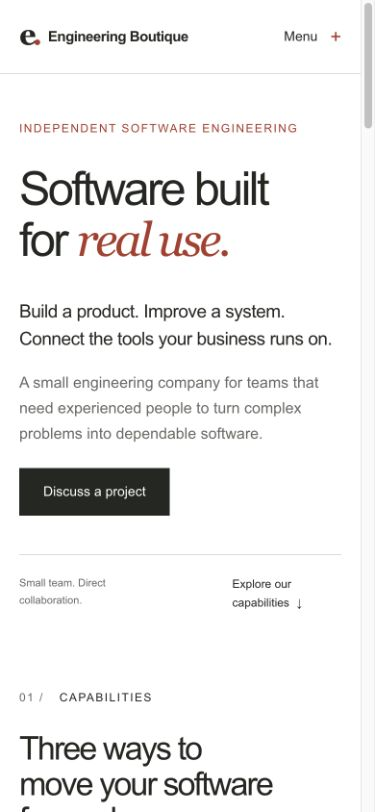
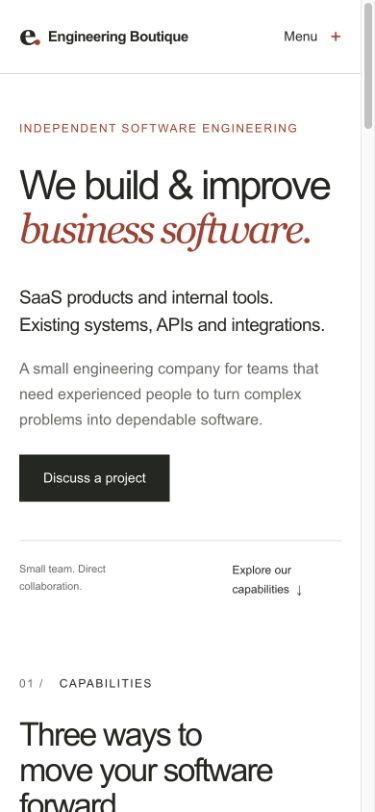
Update Site source

diff --git a/app/page.tsx b/app/page.tsx
@@ -4,7 +4,7 @@ import { capabilities, principles, process } from '@/lib/content';
 import { pageMetadata } from '@/lib/metadata';
 export const metadata = pageMetadata('Software built for real use', 'SaaS products, web applications, software modernization, APIs and automation. Experienced engineers, direct collaboration and maintainable software.', '/');
 export default function Home() { return <>
-  <section className="hero container"><Label>Independent software engineering</Label><div className="hero-grid"><h1>Software built<br/>for <em>real use.</em></h1><div className="hero-copy"><p>Build a product. Improve a system.<br/>Connect the tools your business runs on.</p><p className="muted">A small engineering company for teams that need experienced people to turn complex problems into dependable software.</p><Link href="/contact/" className="button">Discuss a project</Link></div></div><div className="hero-baseline"><span>Small team. Direct collaboration.</span><span>From the first decision to production.</span><a href="#capabilities" className="scroll-link">Explore our capabilities <span aria-hidden="true">↓</span></a></div></section>
+  <section className="hero container"><Label>Independent software engineering</Label><div className="hero-grid"><h1>We build &amp; improve<br/><em>business software.</em></h1><div className="hero-copy"><p>SaaS products and internal tools.<br/>Existing systems, APIs and integrations.</p><p className="muted">A small engineering company for teams that need experienced people to turn complex problems into dependable software.</p><Link href="/contact/" className="button">Discuss a project</Link></div></div><div className="hero-baseline"><span>Small team. Direct collaboration.</span><span>From the first decision to production.</span><a href="#capabilities" className="scroll-link">Explore our capabilities <span aria-hidden="true">↓</span></a></div></section>
   <section id="capabilities" className="section container"><div className="section-heading"><Label number="01">Capabilities</Label><div><h2>Three ways to<br/>move your software forward.</h2><p>New software, existing systems, and the connections between them.</p></div></div><div className="capability-list">{capabilities.map(c => <Link href={`/capabilities/#${c.id}`} className="capability-row" key={c.id}><span className="row-number">{c.number}</span><h3>{c.title}</h3><p>{c.summary}</p><span className="row-action">Explore<span aria-hidden="true"> +</span></span></Link>)}</div></section>
   <section className="situations section"><div className="container"><div className="section-heading"><Label number="02">The work in practice</Label><div><h2>Real business needs.<br/>Useful software.</h2><p>The shape of the work starts with the problem, not a preferred technology.</p></div></div><div className="situations-grid"><div className="situations-intro"><p>For startups building their first serious product. Businesses improving how they operate. Product teams tackling a difficult technical area.</p><Link href="/capabilities/" className="text-link">Find the right starting point</Link></div><dl className="situations-list"><div><dt>A product ready to become real.</dt><dd>SaaS applications, customer portals and MVPs with a path beyond launch.</dd></div><div><dt>A system that is holding you back.</dt><dd>Inherited codebases, risky releases and architecture that has become difficult to change.</dd></div><div><dt>Too much work between your tools.</dt><dd>Internal tools, APIs and data workflows that reduce repeated manual work.</dd></div></dl></div></div></section>
   <section className="section container"><div className="section-heading"><Label number="03">Working together</Label><div><h2>Close to the problem.<br/>Accountable for the work.</h2><p>You speak directly with the engineers building your software.</p></div></div><div className="process-grid">{process.map(([title, text], i) => <article key={title}><span className="row-number">0{i + 1}</span><h3>{title}</h3><p>{text}</p></article>)}</div></section>

diff --git a/app/globals.css b/app/globals.css
@@ -9,3 +9,6 @@
 @media(max-width:1000px){.capability-detail,.engagement-note,.contact-content{gap:45px}.legal-layout{gap:40px}.capability-index{gap:23px}.capability-index a{font-size:13px}.legal-intro h1{font-size:52px}}
 @media(max-width:640px){.capability-index{display:grid;gap:15px;padding-block:20px}.capability-index a{font-size:14px}.capability-detail{display:block}.detail-title{margin-bottom:30px}.detail-title h2{font-size:34px;max-width:none}.detail-title>p:last-child{max-width:none;font-size:17px}.detail-body .detail-lead{font-size:17px}.engagement-note{display:block;padding:45px 0 60px}.engagement-note .section-label{margin-bottom:25px}.engagement-note h2{font-size:32px}.about-editorial{display:block}.about-editorial>.section-label{margin-bottom:25px}.editorial-copy>p{font-size:16px}.audience-list article{display:block;padding-block:24px}.audience-list article p{margin-top:12px!important}.situations .section-heading{margin-bottom:0}.ai-note{display:block;margin-top:36px;padding-top:25px}.ai-note>.section-label{margin-bottom:16px}.contact-content{display:block;padding:35px 0 60px}.contact-details{margin-bottom:45px}.contact-details>p:last-child{max-width:none;margin-top:24px}.contact-guide h2{font-size:32px}.legal-page{padding:48px 0 60px}.legal-intro h1{font-size:43px}.legal-layout{display:block;padding-top:30px}.legal-layout>nav{border-bottom:1px solid var(--line);padding-bottom:30px;margin-bottom:35px;gap:13px}.legal-content h2{font-size:25px}.company-table>div{grid-template-columns:1fr;gap:8px;padding-block:15px;font-size:14px}.not-found-actions{flex-direction:column;align-items:flex-start}}
 @media(min-width:641px) and (max-width:850px){.hero-grid{grid-template-columns:1fr;gap:32px;padding-bottom:45px}.hero h1{font-size:76px}.hero-copy{max-width:54ch}.hero-copy>p:first-child{font-size:20px}.hero-baseline{gap:20px}.navigation{gap:22px}.wordmark{font-size:15px}.navigation .nav-contact{padding:9px 12px}.section-heading{grid-template-columns:1fr 2fr;gap:28px}.section-heading h2{font-size:36px}.capability-detail{grid-template-columns:1fr 1.2fr;gap:35px}.detail-title h2{font-size:34px}.contact-content{grid-template-columns:1fr 1.2fr;gap:35px}.company-table>div{grid-template-columns:1fr;gap:6px}.legal-layout{grid-template-columns:1fr 2fr;gap:30px}}
+.hero h1{font-size:clamp(54px,5.8vw,84px)}
+@media(min-width:641px) and (max-width:850px){.hero h1{font-size:70px}}
+@media(max-width:640px){.hero h1{font-size:clamp(38px,10.8vw,65px)}}
